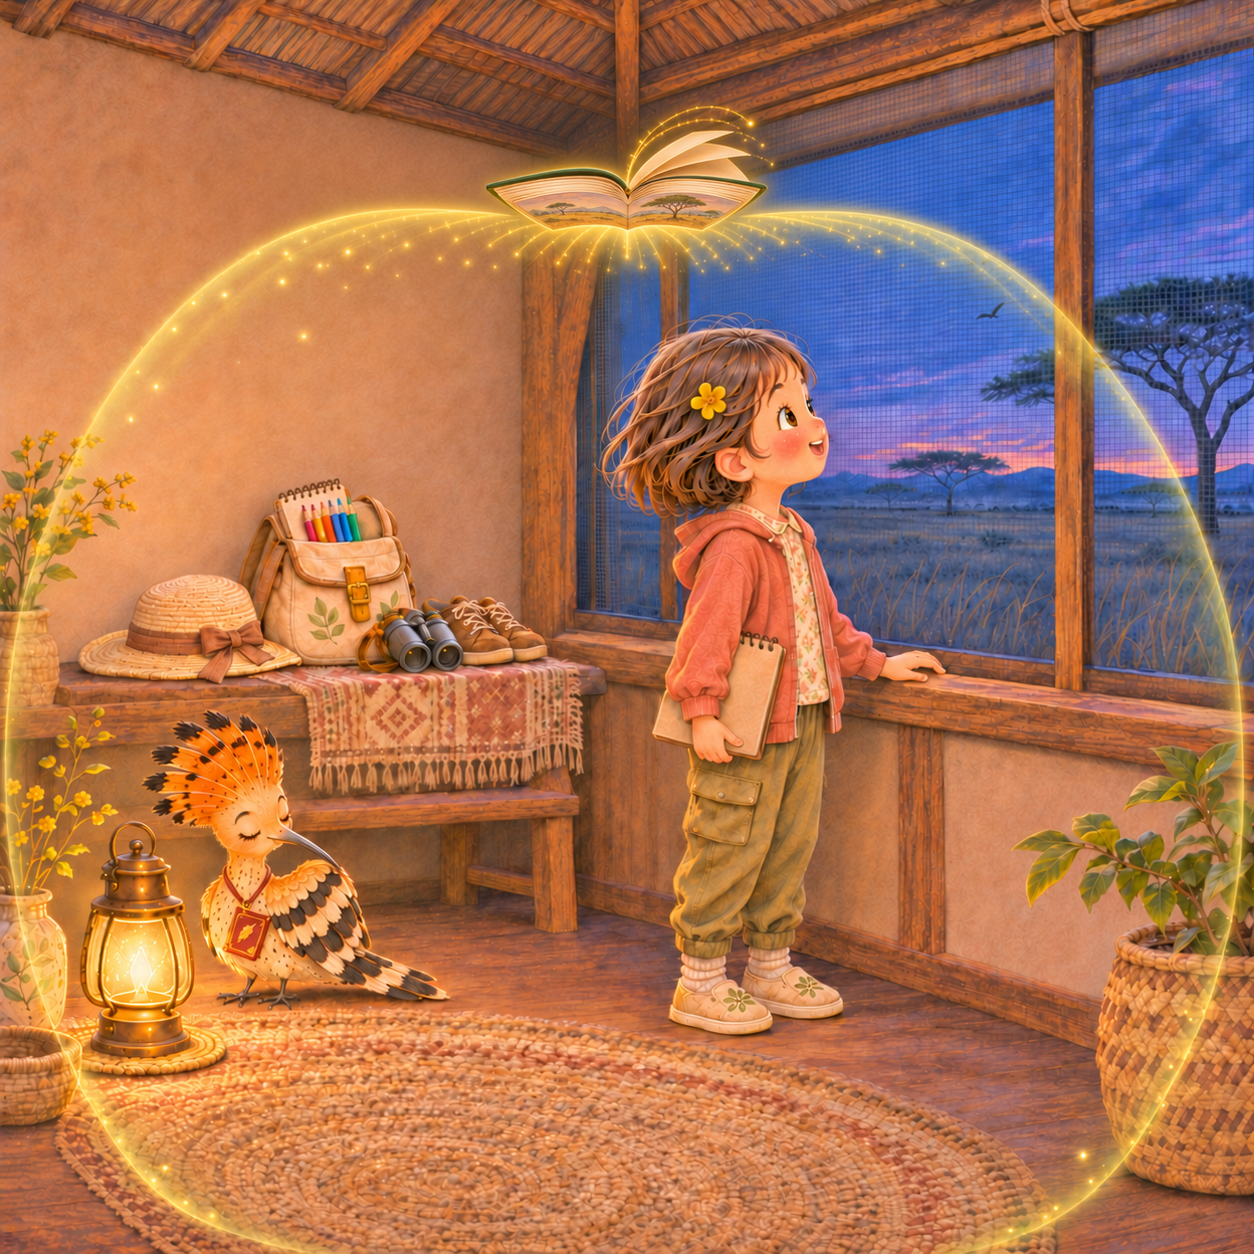
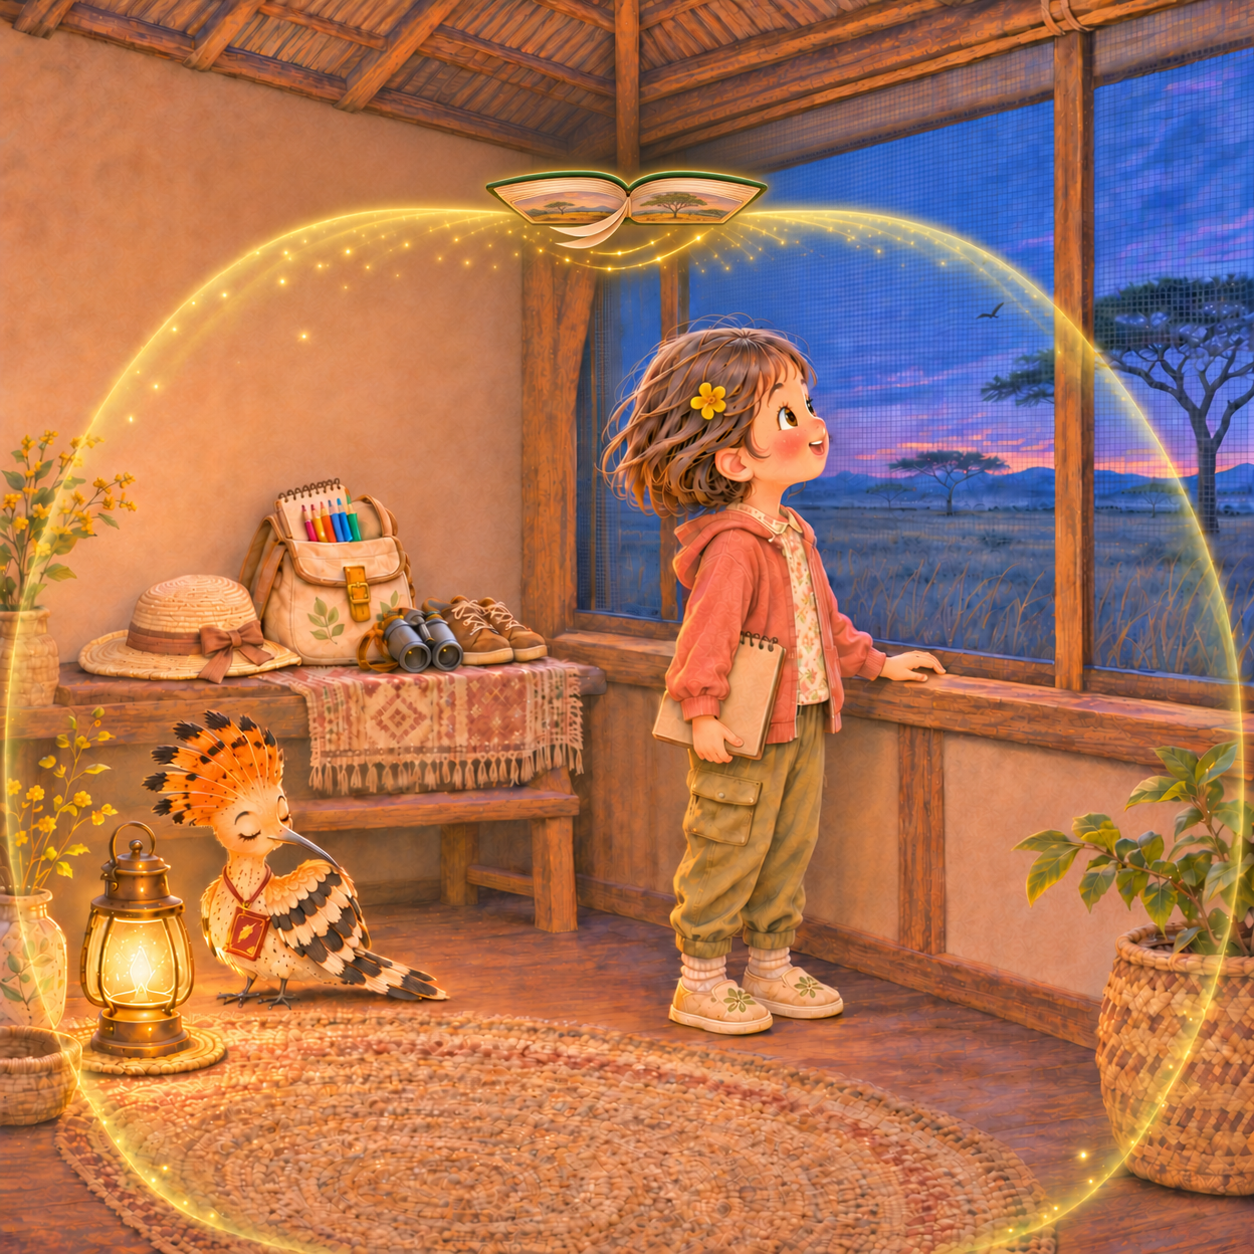
修正倒悬魔法书翻页方向

Changed region(s): [[0.3732, 0.0622, 0.622, 0.2177]]

diff --git a/非洲草原绘本/制图剧本.md b/非洲草原绘本/制图剧本.md
@@ -31,7 +31,7 @@
 
 - **小满：** 5岁，沿用已确认的短黑褐发、圆润脸型、棕眼和儿童比例。浅棕色双肩布包里有笔记本、彩铅、饮水瓶、薄珊瑚色开衫和轻便室内鞋；本次增加一副儿童使用的轻便望远镜，挂带收束，不缠手腕和颈部。魔法书只在赶路时载着她，乘坐时坐稳在左右对称展开的书页中央；到达观察点后下到安全地面，魔法书缩小、收拢或停在身边，不让她站在书上观察动物。
 - **羽羽：** 金棕色戴胜鸟书精灵，细长微下弯黑喙、黑尖扇形羽冠、黑白横斑翅膀、书签状尾羽；细颈绳上的砖红金边羽叶纹小书挂件保持连续。羽羽是随书同行的角色，不充当草原所有野生鸟类的替身。她负责讲解和调整书签方向：草原小百科的知识由她讲给小满听，讲解时停在书页边、书脊或笔记本旁，用喙指点，长篇知识不连续倾倒。
-- **魔法书：** 同一本旧绿皮自然百科，可按需要自由改变大小。赶路时放大并平稳低飞，小满坐在中央；到达观察点后落稳，小满下到安全地面，书缩小或收拢，不充当持续观察台。所有展开状态都必须左右两部分等宽、等厚、角度对称，中间书槽清楚，不能一边大一边小或一边翘成单翼。白天赶路和观察不出现保护光罩。夜间P31—P35，魔法书放大后飞到休息室上方，近水平地倒悬展开，内页朝向下方的小满和羽羽，再从朝下的书槽与页缘生成柔和、半透明的金绿色光罩。儿童高度镜头只能看到有明显透视压缩的朝下内页；页内图画必须贴合左右纸面分别旋转、缩短和弯曲，不能像正对镜头的平面图标。绿色封皮位于页块背面，亮光收在罩内，不照射或惊扰野生动物。
+- **魔法书：** 同一本旧绿皮自然百科，可按需要自由改变大小。赶路时放大并平稳低飞，小满坐在中央；到达观察点后落稳，小满下到安全地面，书缩小或收拢，不充当持续观察台。所有展开状态都必须左右两部分等宽、等厚、角度对称，中间书槽清楚，不能一边大一边小或一边翘成单翼。白天赶路和观察不出现保护光罩。夜间P31—P35，魔法书放大后飞到休息室上方，近水平地倒悬展开，内页朝向下方的小满和羽羽，再从朝下的书槽与页缘生成柔和、半透明的金绿色光罩。儿童高度镜头只能看到有明显透视压缩的朝下内页；页内图画必须贴合左右纸面分别旋转、缩短和弯曲，不能像正对镜头的平面图标。绿色封皮位于页块背面；如出现翻页，活动纸页只能从朝下的内页表面掀起，在书本下方朝人物方向下弯，再回落到另一侧内页，禁止越过或穿出绿色封面。亮光收在罩内，不照射或惊扰野生动物。
 - **自然百科：** 旧绿皮、厚米白书页、叶形书签。P2出现纸上脚印与发光小路，带人物抵达草原营地；普通探索页仍为真实草原。书在P3、P13、P22和P30承担赶路，在P31—P35飞到室内上方生成夜间保护光罩；其余观察页缩小、收拢或安静停在人物身边。P36在营地收好笔记后，经书页绿光返回图书馆。
 - **观察设施：** 水塘远侧有固定观察屋，营地有封闭休息室和纱窗。魔法书在屋旁落稳，小满进入设施；不让小满无缘无故出现在野生动物身旁。
 
@@ -558,7 +558,7 @@
 
 **图内标题：** 第四章／草原没有睡着
 
-**画面建议：** 营地封闭休息室内，小满披上从布包中取出的薄珊瑚色开衫，换上轻便室内鞋，在纱窗前望向日落后的草原。魔法书改变大小，缩至画幅宽度约四分之一后飞到室内上方，近水平地倒悬并左右对称展开：内页朝下，左右页块等宽等厚、角度对称，中央书槽居中，绿色封皮位于页块背面。儿童高度仰视只能看见经过透视压缩的朝下内页，页内自然图画贴合各自纸面透视，不能正面朝向镜头。3—5张薄书页仍连在中央书槽上，从一侧掀起并弯曲翻向另一侧，以分层页缘和轻微金色弧光表现翻页动态，不能画成脱落散页。半透明金绿色保护光罩从朝下的书槽与页缘向下展开，覆盖小满和羽羽；亮光收在罩内，不射向窗外。顶灯调暗，小灯放在室内矮桌，羽羽停在灯旁理着羽冠。天空从暖色渐转蓝紫，不将这一页画成白昼。室外只有草影和少量树影，不安排大型动物贴着窗子。
+**画面建议：** 营地封闭休息室内，小满披上从布包中取出的薄珊瑚色开衫，换上轻便室内鞋，在纱窗前望向日落后的草原。魔法书改变大小，缩至画幅宽度约四分之一后飞到室内上方，近水平地倒悬并左右对称展开：内页朝下，左右页块等宽等厚、角度对称，中央书槽居中，绿色封皮位于页块背面。儿童高度仰视只能看见经过透视压缩的朝下内页，页内自然图画贴合各自纸面透视，不能正面朝向镜头。2—3张薄书页仍连在中央书槽上，从朝下的内页表面掀起，在书本下方朝小满方向下弯，再横向翻向另一侧内页；以分层页缘和书本下方的轻微金色弧光表现动态，不能越过绿色封面或画成脱落散页。半透明金绿色保护光罩从朝下的书槽与页缘向下展开，覆盖小满和羽羽；亮光收在罩内，不射向窗外。顶灯调暗，小灯放在室内矮桌，羽羽停在灯旁理着羽冠。天空从暖色渐转蓝紫，不将这一页画成白昼。室外只有草影和少量树影，不安排大型动物贴着窗子。
 
 **绘本文字：**
 

diff --git a/skills/childrens-picturebook-illustration/SKILL.md b/skills/childrens-picturebook-illustration/SKILL.md
@@ -79,7 +79,7 @@ Apply these constraints to this project. The user's latest confirmed correction 
 Use the [formal savanna manuscript](../../非洲草原绘本/制图剧本.md), [savanna constraints](../../非洲草原绘本/制图约束规范.md), the shared character sheets and the user's latest corrections as the source of truth.
 
 - **Travel versus observation:** the magic book carries Xiaoman only on designated travel pages such as P3, P13, P22 and P30. At an animal observation point, Xiaoman steps onto safe ground or enters the fixed observation hut; the book shrinks, closes or rests nearby. Do not keep her standing on the book while observing wildlife, and do not add a daytime protection dome.
-- **Night protection and overhead perspective:** on P31—P35 the magic book may freely change size, fly above the camp lounge and hover nearly horizontal in an inverted open state, with inner pages facing downward toward Xiaoman and Yuyu. A child-height upward camera sees strongly foreshortened downward-facing pages, not a front-facing book logo. Page illustrations must rotate, shorten and curve with each page plane; the green covers sit behind the page blocks. Cast the soft semi-transparent golden-green dome from the downward-facing gutter and page edges, and contain the light inside so it does not shine through the screen window or disturb wildlife.
+- **Night protection and overhead perspective:** on P31—P35 the magic book may freely change size, fly above the camp lounge and hover nearly horizontal in an inverted open state, with inner pages facing downward toward Xiaoman and Yuyu. A child-height upward camera sees strongly foreshortened downward-facing pages, not a front-facing book logo. Page illustrations must rotate, shorten and curve with each page plane; the green covers sit behind the page blocks. If pages turn while the book is inverted, they must lift from the downward-facing inner surface, bow downward toward the characters beneath the book and return to the opposite inner surface; never let turning pages pass above or through the green covers. Cast the soft semi-transparent golden-green dome from the downward-facing gutter and page edges, and contain the light inside so it does not shine through the screen window or disturb wildlife.
 - **Symmetric open-book lock:** whenever the book is open, its left and right page blocks must be equal in width, thickness and opening angle, with a centered readable gutter, matching layered page edges and continuous thin green covers. Reject a one-wing shape, mismatched halves, twisted spine or one side larger than the other.
 - **Gaze and body axis:** lock the actual observation target before drawing. Align feet or seated support, pelvis, chest, shoulders, neck, chin and both pupils toward that target as the pose requires; do not rotate only the eyes or head. Check the full composition and an enlarged face crop.
 - **Hands and fixed props:** inspect each hand enlarged for four fingers plus one thumb, plausible occlusion, correct palm/wrist connection and believable contact. Lock one cross-page model for true recurring props: the green magic book and leaf bookmark, tan backpack, notebook, colored pencils and binoculars; only perspective and distance may change their apparent size. If a project uses the confirmed recorder, it is also a fixed prop and must retain the same body, furry windscreen, controls and hand-to-device scale. Clothing, hats, outerwear and footwear may change with habitat, weather and activity; require continuity only within the same uninterrupted scene or outfit sequence.

diff --git a/非洲草原绘本/制图约束规范.md b/非洲草原绘本/制图约束规范.md
@@ -8,7 +8,7 @@
 - 不出现老虎、亚洲象、袋鼠、南美金刚鹦鹉，不把沙漠或热带密林物种随意搬到开放草原。
 - 小满保持5岁身份、脸型、短发和黄花发夹，衣着、鞋帽按剧本所定天气、路线与活动；羽羽保持戴胜鸟物种特征、书签尾及砖红金边小书挂件。
 - 魔法书只在P3、P13、P22和P30等赶路场景承担乘坐功能。到达观察点后，小满落到安全地面，书缩小、收拢或停在身边；观察动物时不站在魔法书上，白天不出现保护光罩。
-- 夜间P31—P35，魔法书可自由改变大小并飞到休息室上方，近水平倒悬、内页朝下并左右对称展开，再由朝下的书槽与页缘生成半透明金绿色保护光罩。儿童高度镜头只看见有明显透视压缩的朝下内页；页内图画服从左右页各自的倾斜、弯曲与缩短，禁止画成正对镜头的平面图标。绿色封皮位于页块背面，亮光收在罩内，不照射窗外或惊扰野生动物。
+- 夜间P31—P35，魔法书可自由改变大小并飞到休息室上方，近水平倒悬、内页朝下并左右对称展开，再由朝下的书槽与页缘生成半透明金绿色保护光罩。儿童高度镜头只看见有明显透视压缩的朝下内页；页内图画服从左右页各自的倾斜、弯曲与缩短，禁止画成正对镜头的平面图标。绿色封皮位于页块背面；倒悬状态的翻页只能发生在内页下方，活动纸页从朝下纸面离开、向人物方向下弯并回到另一侧，不能越过或穿出封面。亮光收在罩内，不照射窗外或惊扰野生动物。
 - 魔法书每次展开时，左右两部分必须等宽、等厚、角度对称，中间书槽清楚，纸页堆与薄绿封皮结构连续；禁止一边大一边小、一边翘起成单翼或书脊错位。
 - 每页先确定观察对象的左右、高低和距离，再同步调整小满的肩胸、腰胯、头颈、下巴及双眼瞳孔；不能只转头或只挪眼珠。双手分别按四指加拇指的五指结构检查，允许自然遮挡，不得多指、少指、融合或掌腕断裂。
 - 固定道具跨页锁定同一模型：旧绿皮魔法书、叶形书签、浅棕布包、笔记本、彩铅和轻便望远镜不得换款、变色、复制或无理由改变相对比例。服装、帽子、鞋与开衫根据天气、场景和活动更换，不作为全书固定道具；只需保证同一连续场景内的换装逻辑和前后衔接。

diff --git a/非洲草原绘本/正式素材/README.md b/非洲草原绘本/正式素材/README.md
@@ -10,6 +10,6 @@
 ## 文件校验
 
[3 lines of base64/hex data omitted]
 
 后续页面继续锁定小满与羽羽形象、固定道具模型、人物视线和身体轴线、双手五指结构，以及魔法书左右对称展开规则。
